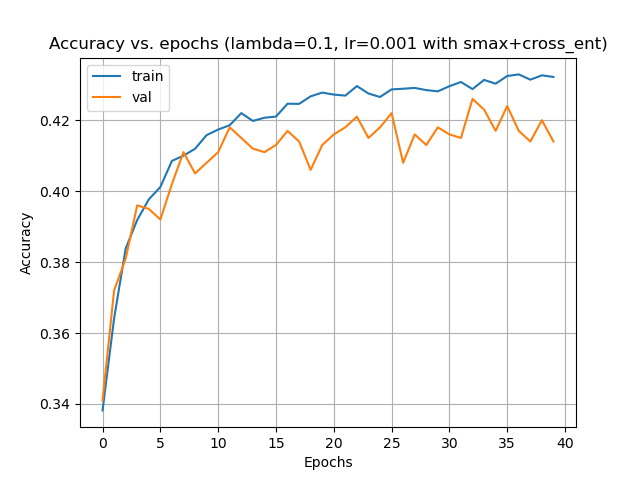
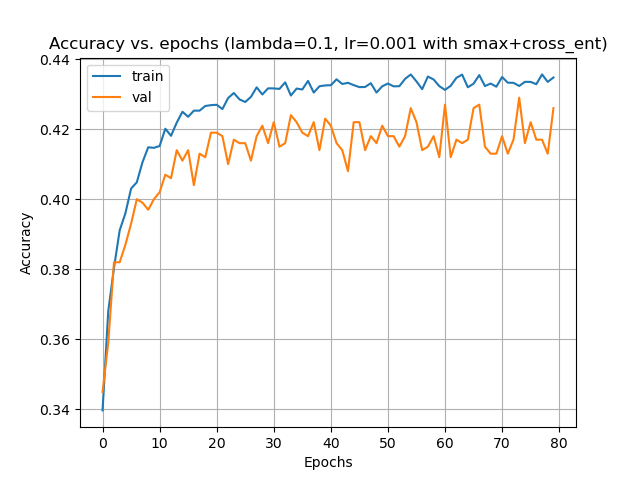
some more results

diff --git a/assigments/assignment_1/Assignment1Bonus.py b/assigments/assignment_1/Assignment1Bonus.py
@@ -1015,10 +1015,10 @@ def main():
 
     # smax + cross entropy first
     hyperparams_dict = [
-        {"reg_rate_l2": 0.1, "n_epochs": 60, "batch_size": 100, "lr_initial": 0.001},
-        {"reg_rate_l2": 0.2, "n_epochs": 60, "batch_size": 100, "lr_initial": 0.001},
-        {"reg_rate_l2": 0.4, "n_epochs": 60, "batch_size": 100, "lr_initial": 0.001},
-        {"reg_rate_l2": 0.6, "n_epochs": 60, "batch_size": 100, "lr_initial": 0.001},
+        {"reg_rate_l2": 0.1, "n_epochs": 80, "batch_size": 100, "lr_initial": 0.001},
+        {"reg_rate_l2": 0.1, "n_epochs": 80, "batch_size": 100, "lr_initial": 0.0001},
+        #{"reg_rate_l2": 0.4, "n_epochs": 60, "batch_size": 100, "lr_initial": 0.001},
+        #{"reg_rate_l2": 0.6, "n_epochs": 60, "batch_size": 100, "lr_initial": 0.001},
     ]
 
     results_list_of_dicts = []
@@ -1039,10 +1039,10 @@ def main():
 
     # linear + hinge loss second
     hyperparams_dict = [
-        {"reg_rate_l2": 0.5, "n_epochs": 60, "batch_size": 100, "lr_initial": 0.0001},
-        {"reg_rate_l2": 0.5, "n_epochs": 60, "batch_size": 100, "lr_initial": 0.0001},
-        {"reg_rate_l2": 0.8, "n_epochs": 60, "batch_size": 100, "lr_initial": 0.0001},
-        {"reg_rate_l2": 0.8, "n_epochs": 60, "batch_size": 100, "lr_initial": 0.0001},
+        {"reg_rate_l2": 0.1, "n_epochs": 80, "batch_size": 100, "lr_initial": 0.0001},
+        {"reg_rate_l2": 0.1, "n_epochs": 80, "batch_size": 100, "lr_initial": 0.0001},
+        #{"reg_rate_l2": 0.1, "n_epochs": 60, "batch_size": 100, "lr_initial": 0.0001},
+        #{"reg_rate_l2": 0.1, "n_epochs": 60, "batch_size": 100, "lr_initial": 0.0001},
     ]
 
     results_list_of_dicts = []
